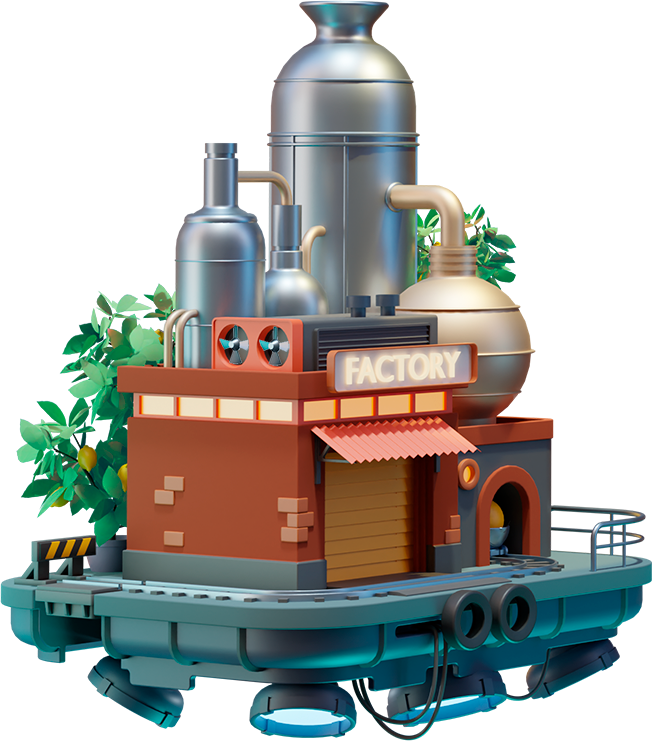
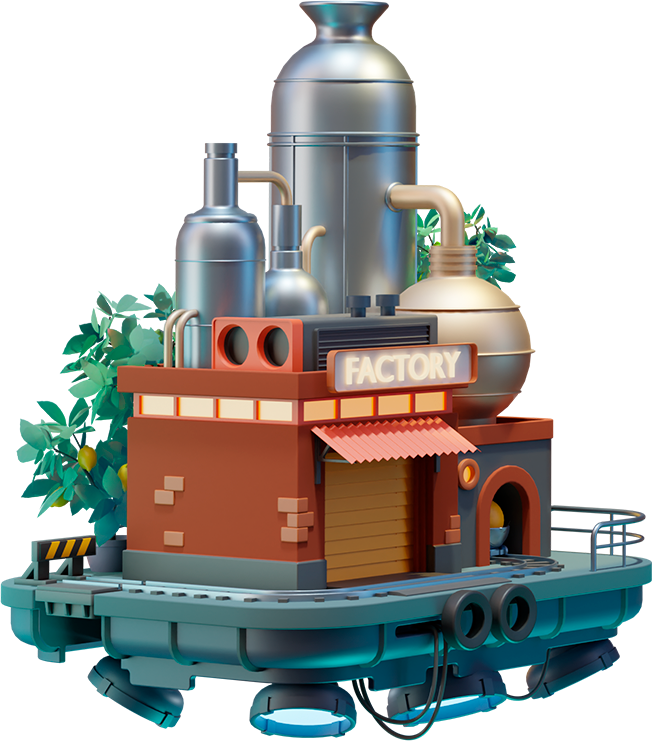
Add new coolers

diff --git a/src/components/threejs/fans.ts b/src/components/threejs/fans.ts
@@ -1,0 +1,89 @@
+import { LoadingManager, DirectionalLight, PerspectiveCamera, Scene, WebGLRenderer, Vector3 } from "three"
+import { GLTFLoader } from 'three/examples/jsm/loaders/GLTFLoader'
+
+export class Model {
+  private camera: PerspectiveCamera;
+  private scene: Scene;
+  private renderer: WebGLRenderer;
+  private dom: HTMLElement
+  private light: DirectionalLight
+  private loader: GLTFLoader
+  private isAnimating: boolean
+
+  constructor({ dom, model }: { dom: string, model: string }) {
+    this.dom = document.getElementById(dom)
+    this.camera = new PerspectiveCamera(30, 1);
+    this.camera.position.set(0,0,30)
+
+    this.scene = new Scene();
+
+    const manager = new LoadingManager();
+    manager.onProgress = function (item, loaded, total) {
+      const percents = (loaded / total * 100) + '%';
+      console.log(percents)
+    };
+
+    this.loader = new GLTFLoader(manager);
+    this.loader.load(model, (gltf) => {
+      const cooler1 = gltf.scene
+      const cooler2 = gltf.scene.clone()
+      const cooler3 = gltf.scene.clone()
+
+      cooler1.name = 'cooler1'
+      cooler1.position.set(-4.65, 2.39, 0)
+      cooler1.rotateY(0.75)
+      const cooler1scale = 0.32
+      cooler1.scale.set(cooler1scale, cooler1scale, cooler1scale)
+      this.scene.add(cooler1)
+
+      cooler2.name = 'cooler2'
+      cooler2.position.set(-5.39, 2.41, 0)
+      cooler2.rotateY(0.75)
+      const cooler2scale = 0.33
+      cooler2.scale.set(cooler2scale, cooler2scale, cooler2scale)
+      this.scene.add(cooler2)
+
+      cooler3.name = 'cooler3'
+      cooler3.position.set(-6.18, 3.75, 0)
+      cooler3.rotateY(0.7)
+      const cooler3scale = 0.37
+      cooler3.scale.set(cooler3scale, cooler3scale, cooler3scale)
+      this.scene.add(cooler3)
+    });
+
+    this.renderer = new WebGLRenderer({ antialias: true, alpha: true });
+
+    this.renderer.setClearColor(0x000000, 0); // the default
+    this.renderer.setPixelRatio(window.devicePixelRatio);
+    this.renderer.setSize(this.dom.offsetWidth, this.dom.offsetWidth);
+
+    this.light = new DirectionalLight(0xFFFFFF, 1.2);
+    this.light.position.set(10, 5, 30);
+    this.scene.add(this.light);
+
+    manager.onLoad = () => {
+      this.dom.appendChild(this.renderer.domElement);
+      document.getElementById('loader').style.opacity = '0';
+      window.addEventListener("resize", this.onWindowResize.bind(this), false);
+      if (!this.isAnimating) {
+        this.animate();
+        this.isAnimating = true
+      }
+    };
+
+  }
+
+  private onWindowResize(): void {
+    this.camera.aspect = 1;
+    this.camera.updateProjectionMatrix();
+    this.renderer.setSize(this.dom.offsetWidth, this.dom.offsetWidth);
+  }
+
+  private animate(): void {
+    requestAnimationFrame(this.animate.bind(this));
+    this.scene.getObjectByName('cooler1').rotation.z -= 0.012;
+    this.scene.getObjectByName('cooler2').rotation.z -= 0.015;
+    this.scene.getObjectByName('cooler3').rotation.z -= 0.008;
+    this.renderer.render(this.scene, this.camera);
+  }
+}

diff --git a/src/routes/index.svelte b/src/routes/index.svelte
@@ -8,6 +8,8 @@ import Loader from '$src/components/layout/Loader.svelte';
 import Mills from '$src/components/threejs/Mills.svelte';
 import Arena from '$src/components/threejs/Arena.svelte';
 import Coin from '$src/components/threejs/Coin.svelte';
+import Coolers from '$src/components/threejs/Coolers.svelte';
+import Fans from '$src/components/threejs/Fans.svelte';
 
 
 onMount(async () => {
@@ -51,7 +53,9 @@ onMount(async () => {
 <div class="home">
   <div class="home-inner">
     <div class="layer" style="top: 63%; width: 100%;">
-      <img class="img-fluid" src="/img/home/bottom-city.png" alt="Bottom City" />
+      <img class="img-fluid" src="/img/home/bottom-city.png" alt="Bottom City" style="position: absolute;" />
+      <img class="img-fluid" src="/img/home/bottom-city-front.png" alt="Bottom City" style="position: relative;" />
+      <Fans />
     </div>
     <div class="layer" style="top: 30%; width: 48%; transform: translate(-50%, -85%); left: 50%; max-width: 700px;" on:click={() => goto('/arena')}>
       <img class="img-fluid" src="/img/home/arena-back.png" alt="Arena" style="position: absolute; width: 100%;" />
@@ -75,7 +79,9 @@ onMount(async () => {
     </div>
     <div class="layer" style="top: 53%; width: 32%; margin-top: -21%; left: -3%; animation: soaring-stake 6s infinite;">
       <img class="img-fluid img-hover" src="/img/home/factory-glow.png" alt="Factory Glow" />
-      <img class="img-fluid" src="/img/home/factory.png" alt="Factory" />
+      <img class="img-fluid" src="/img/home/factory.png" alt="Factory" style="position: absolute;" />
+      <img class="img-fluid" src="/img/home/factory-front.png" alt="Factory"  style="position: relative;" />
+      <Coolers />
     </div>
   </div>
 

diff --git a/src/components/threejs/Fans.svelte b/src/components/threejs/Fans.svelte
@@ -2,16 +2,16 @@
   import { onMount } from 'svelte'
 
   onMount(async () => {
-    const { Model } = await import('$src/components/threejs/coolers')
+    const { Model } = await import('$src/components/threejs/fans')
     new Model({
-      dom: 'factory',
-      model: '/models/factory_fan.glb'
+      dom: 'fans',
+      model: '/models/bottom_house_fan.glb'
     })
   })
 </script>
 
 <style>
-  .factory {
+  .fans {
     position: absolute;
     left: 0;
     top: 0;
@@ -20,5 +20,5 @@
   }
 </style>
 
-<div class="factory" id="factory">
+<div class="fans" id="fans">
 </div>
